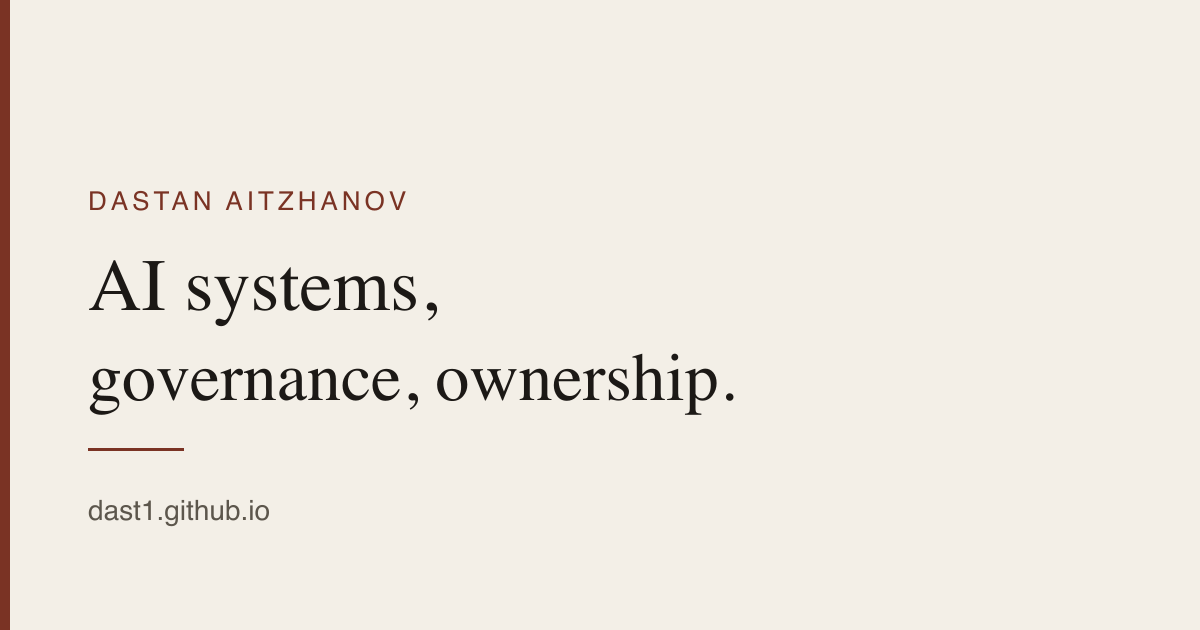
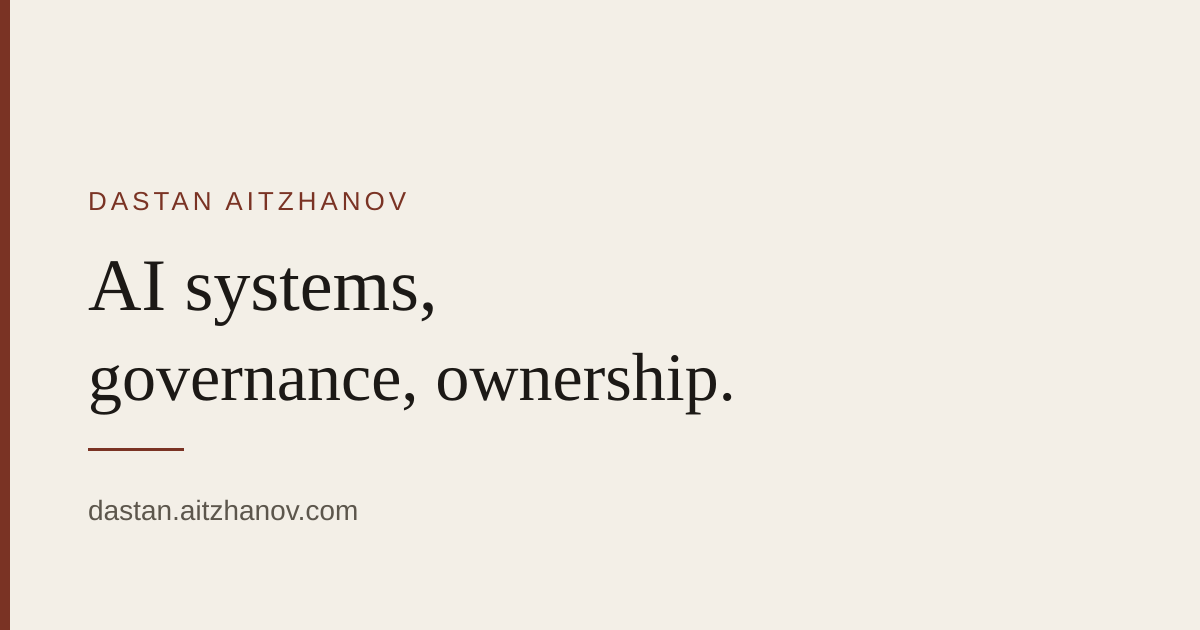
Move the site to dastan.aitzhanov.com and add llms.txt (#32)
Point siteUrl and the build scripts' origin at the custom domain, add
public/CNAME, and regenerate the social card with the new address.
Add /llms.txt, a plain-text map of the essays, ideas, and work for
language-model readers, and extend the Person JSON-LD.

Claude-Session: https://claude.ai/code/session_01G9p1SQYVMDn9PeD3D1Zit8

diff --git a/src/pages/llms.txt.ts b/src/pages/llms.txt.ts
@@ -1,0 +1,45 @@
+import type { APIRoute } from 'astro';
+import { publishedIdeas, publishedProjects, publishedWriting } from '../lib/content';
+import { site } from '../site';
+
+// A plain-text map of the site for language-model readers (llmstxt.org).
+export const GET: APIRoute = async () => {
+  const url = (path: string) => new URL(path, site.url).href;
+  const line = (title: string, path: string, description: string) =>
+    `- [${title}](${url(path)}): ${description}`;
+  const byDate = <T extends { data: { date: string } }>(a: T, b: T) =>
+    b.data.date.localeCompare(a.data.date);
+
+  const writing = (await publishedWriting()).sort(byDate);
+  const ideas = (await publishedIdeas()).sort(byDate);
+  const work = (await publishedProjects()).sort(byDate);
+
+  const body = [
+    `# ${site.name}`,
+    '',
+    `> ${site.description}`,
+    '',
+    `${site.name} is an AI systems builder and writer based in ${site.location}. Experience: Solutions Architect at Databricks until August 2026; AI/ML Specialist Solutions Architect at AWS before that; earlier, managing director of an operating business and founder of a quantitative investment firm. Current work: AI systems that act on behalf of people and organizations, and writing about how that authority is granted, limited, and answered for.`,
+    '',
+    `- [About](${url('/about/')})`,
+    `- [LinkedIn](${site.linkedin})`,
+    `- [GitHub](${site.github})`,
+    '',
+    '## Essays',
+    '',
+    ...writing.map((e) => line(e.data.title, `/writing/${e.id}/`, e.data.description)),
+    '',
+    '## Ideas',
+    '',
+    ...ideas.map((e) => line(e.data.title, `/ideas/${e.id}/`, e.data.description)),
+    '',
+    '## Work',
+    '',
+    ...work.map((e) => line(e.data.title, `/work/${e.id}/`, e.data.description)),
+    '',
+  ].join('\n');
+
+  return new Response(body, {
+    headers: { 'Content-Type': 'text/plain; charset=utf-8' },
+  });
+};

diff --git a/src/lib/jsonld.ts b/src/lib/jsonld.ts
@@ -20,6 +20,7 @@ export function siteJsonLd(): Record<string, unknown> {
         url: site.url,
         email: `mailto:${site.email}`,
         description: site.description,
+        jobTitle: 'Founder',
         address: {
           '@type': 'PostalAddress',
           addressRegion: site.location,
@@ -30,6 +31,8 @@ export function siteJsonLd(): Record<string, unknown> {
           'Artificial intelligence',
           'Delegated authority',
           'AI governance',
+          'AI policy',
+          'Compute governance',
           'Autonomous agents',
           'Distributed computing',
           'Personal computing',

diff --git a/src/site.ts b/src/site.ts
@@ -1,10 +1,9 @@
 /**
  * Public origin for this site.
- * GitHub Pages user site: https://dast1.github.io
- * Custom domain later: change this URL, add public/CNAME with the hostname,
- * and set the domain in the repository Pages settings.
+ * Custom domain served by GitHub Pages (public/CNAME). The dast1.github.io
+ * address redirects here once the domain is set in the Pages settings.
  */
-export const siteUrl = 'https://dast1.github.io';
+export const siteUrl = 'https://dastan.aitzhanov.com';
 
 export const site = {
   name: 'Dastan Aitzhanov',

diff --git a/README.md b/README.md
@@ -34,7 +34,7 @@ npm run verify  # check, build, and lint
 
 ## Deploy
 
-The live site is a GitHub Pages **user site**. It is served from this repository at the domain root (`https://dast1.github.io`), not from a project subpath.
+The live site is a GitHub Pages **user site**. It is served from this repository at the root of the custom domain `https://dastan.aitzhanov.com`, not from a project subpath. `https://dast1.github.io` redirects there.
 
 [`.github/workflows/pages.yml`](.github/workflows/pages.yml) does two things:
 
@@ -58,12 +58,14 @@ The workflow does not deploy from pull requests, so opening a PR leaves the curr
 
 The public origin lives in [`src/site.ts`](src/site.ts) as `siteUrl`, and Astro reads it from [`astro.config.ts`](astro.config.ts). Canonical URLs, the sitemap, RSS, and Open Graph tags all use that value.
 
-To move the site to your own domain later:
+The domain is `dastan.aitzhanov.com`. It is set in four places, and they have to agree:
 
-1. Change `siteUrl`.
-2. Add `public/CNAME` containing only the hostname, for example `example.com`.
-3. In the repository Pages settings, set the custom domain and turn on HTTPS.
-4. Point the domain's DNS at GitHub Pages.
+1. `siteUrl` in `src/site.ts`, plus `siteOrigin` in `scripts/check-built.mjs` and `scripts/translate-site.mjs`.
+2. `public/CNAME`, containing only the hostname.
+3. DNS: a `CNAME` record for `dastan` in the `aitzhanov.com` hosted zone (Route 53), pointing to `dast1.github.io`.
+4. **Settings → Pages → Custom domain**, with **Enforce HTTPS** on. Verify `aitzhanov.com` under the account's **Settings → Pages → Verified domains** so no other repository can claim the name.
+
+Set up DNS and the Pages setting before merging a change to the domain. Otherwise canonical URLs and the sitemap point at a host that does not answer yet.
 
 No base path change is required. This repository is a user site, so pages stay at `/writing/…`, `/ideas/…`, and `/projects/…`.
 
